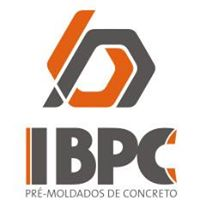
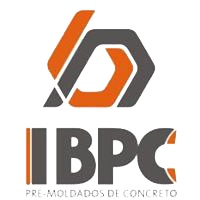
Diminuindo imagens de parceria!
Foi colocado 6 logos dos parceiros na tela por vez

diff --git a/index.html b/index.html
@@ -291,22 +291,22 @@
 				  <img src="img/parceiros/ibpc.jpg" alt="IBPC - Pré-Moldados de Concreto">
 				</div>
 				<div class="item">
-				  <img src="img/parceiros/prppgci.png" alt="PRPPGCI - UFRB">
+				  <img src="img/parceiros/prppgci.jpg" alt="PRPPGCI - UFRB">
 				</div>
 				<div class="item">
-				  <img src="img/parceiros/carlos_trindade.png" alt="Trindade Contabilidade">
+				  <img src="img/parceiros/carlos_trindade.jpg" alt="Trindade Contabilidade">
 				</div>
 				<div class="item">
-				  <img src="img/parceiros/cetec.png" alt="CETEC - UFRB">
+				  <img src="img/parceiros/cetec.jpg" alt="CETEC - UFRB">
 				</div>
 				<div class="item">
-				  <img src="img/parceiros/construrec_jr.png" alt="ConstruREC Jr.">
+				  <img src="img/parceiros/construrec_jr.jpg" alt="ConstruREC Jr.">
 				</div>
 				<div class="item">
 				  <img src="img/parceiros/IEEE.jpg" alt="Ramo Estudantil IEEE UFRB">
 				</div>
 				<div class="item">
-				  <img src="img/parceiros/baja.png" alt="Reconbaja UFRB">
+				  <img src="img/parceiros/baja.jpg" alt="Reconbaja UFRB">
 				</div>
 				<!--div class="item">
 				  <img src="img/parceiros/sannari_jr.png" alt="Reconbaja UFRB">
@@ -444,7 +444,7 @@
             $(document).ready(function() {
               var owl = $('.owl-carousel');
               owl.owlCarousel({
-                items: 4,
+                items: 6,
                 loop: true,
                 margin: 10,
                 autoplay: true,

diff --git a/css/style.css b/css/style.css
@@ -544,6 +544,7 @@ color: #3AC2C2;
 }
 #parceiros {
 	padding:85px 0 0;
+	background: #fff;
 }
 .main-section.team h6{
 	margin-bottom:40px;
@@ -766,7 +767,7 @@ color: #3AC2C2;
 	background: #dd4b39;
 }
 .github a:hover {
-	background: #57297d;
+	background: #5e2091;
 }
 .dribbble a:hover {
 	background: #ea4c89;
